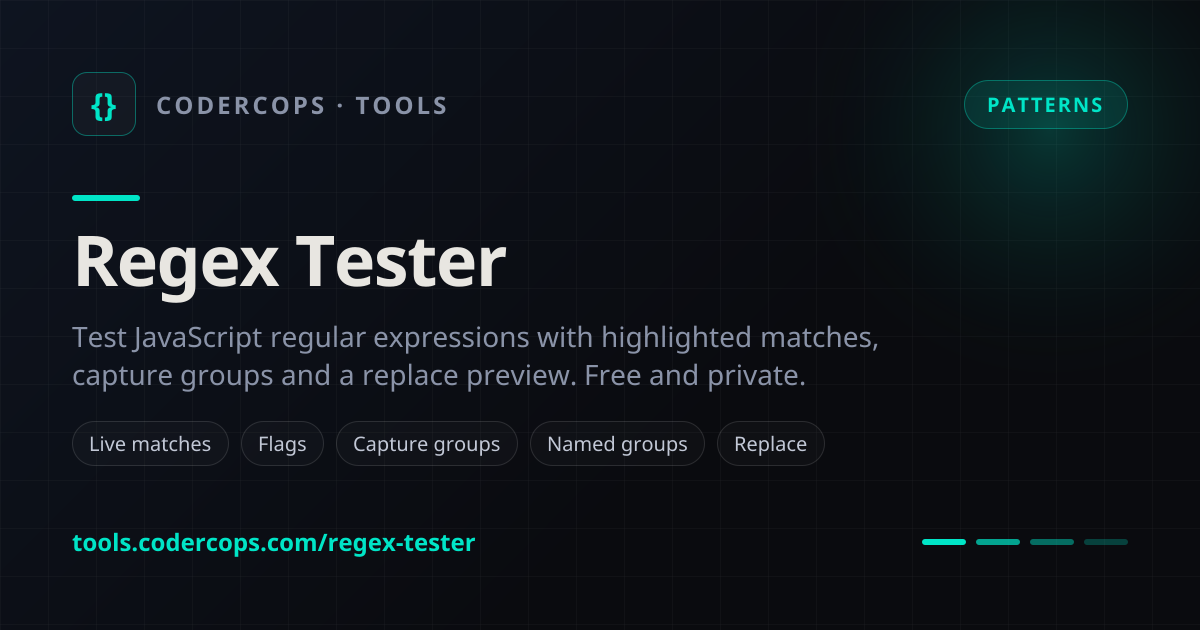
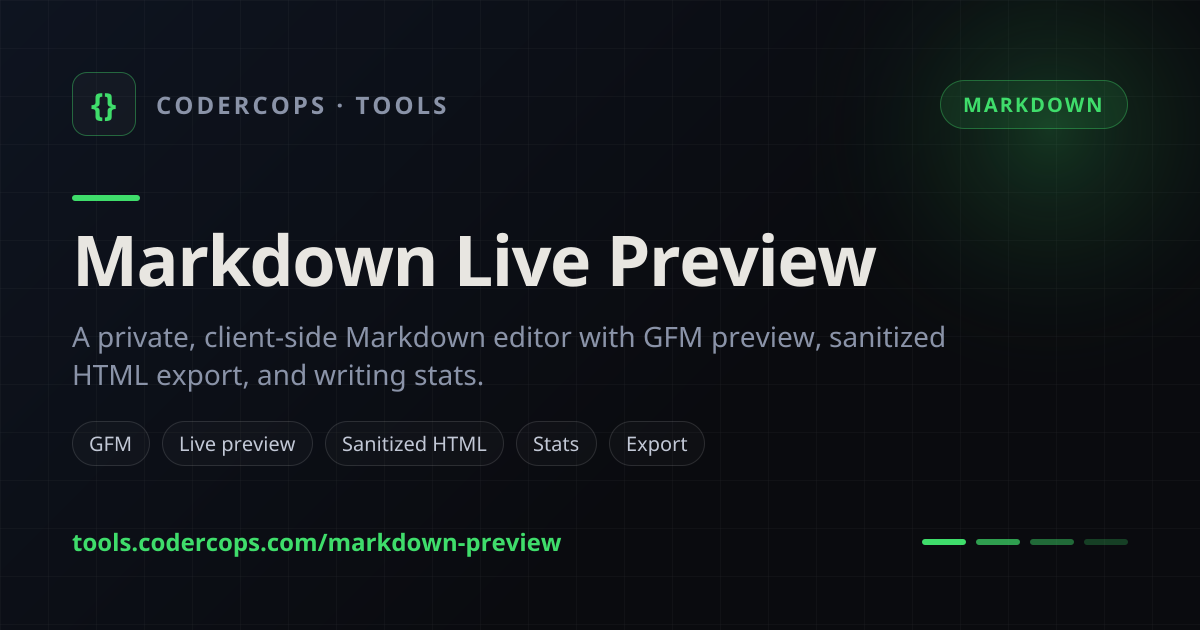
fix: correct preview themes and OG asset

diff --git a/app/(tools)/markdown-preview/MarkdownPreviewClient.tsx b/app/(tools)/markdown-preview/MarkdownPreviewClient.tsx
@@ -1,11 +1,12 @@
 "use client";
 
-import { useEffect, useMemo, useRef, useState } from "react";
+import { useMemo, useRef, useState, useSyncExternalStore } from "react";
 import DOMPurify from "dompurify";
 import { CopyButton } from "@/components/shared/CopyButton";
 import { getMarkdownStats, insertMarkdown, renderMarkdown } from "@/lib/markdown-preview";
 
 const starter = `# Hello, Markdown!\n\nWrite on the left and see **GitHub-flavored Markdown** rendered here.\n\n- [x] Live preview\n- [ ] Copy sanitized HTML\n\n| Feature | Status |\n| --- | --- |\n| Tables | Ready |\n| Code | \`const answer = 42\` |\n\n~~~ts\nconst greeting = "Hello, world!";\n~~~`;
+const subscribeToMountedState = () => () => {};
 
 function sanitizePreviewHtml(markdown: string) {
   const clean = DOMPurify.sanitize(renderMarkdown(markdown), {
@@ -29,9 +30,8 @@ function sanitizePreviewHtml(markdown: string) {
 export function MarkdownPreviewClient() {
   const [markdown, setMarkdown] = useState(starter);
   const [darkPreview, setDarkPreview] = useState(false);
-  const [mounted, setMounted] = useState(false);
+  const mounted = useSyncExternalStore(subscribeToMountedState, () => true, () => false);
   const textareaRef = useRef<HTMLTextAreaElement>(null);
-  useEffect(() => setMounted(true), []);
   const html = useMemo(() => {
     return mounted ? sanitizePreviewHtml(markdown) : "";
   }, [markdown, mounted]);
@@ -77,7 +77,7 @@ export function MarkdownPreviewClient() {
     </div>
     <div className="grid grid-cols-1 lg:grid-cols-2 gap-3">
       <div className="card overflow-hidden"><div className="px-3 py-2 border-b border-[var(--hairline)] bg-[var(--bg-raise)] font-mono text-[10.5px] tracking-[0.22em] uppercase text-[var(--fg-dim)]">Markdown</div><textarea ref={textareaRef} aria-label="Markdown input" value={markdown} onChange={(e) => setMarkdown(e.target.value)} spellCheck={false} className="editor-input p-4" style={{ minHeight: 520 }} /></div>
-      <div className={`card overflow-hidden ${darkPreview ? "bg-[#17191f] text-[#f4f4f5]" : "bg-white text-[#17191f]"}`}><div className="px-3 py-2 border-b border-black/10 font-mono text-[10.5px] tracking-[0.22em] uppercase opacity-60">Preview</div><article className="markdown-preview p-5 min-h-[520px] overflow-auto" dangerouslySetInnerHTML={{ __html: html }} /></div>
+      <div className="card overflow-hidden" style={{ background: darkPreview ? "#17191f" : "#ffffff", color: darkPreview ? "#f4f4f5" : "#17191f" }}><div className="px-3 py-2 border-b border-black/10 font-mono text-[10.5px] tracking-[0.22em] uppercase opacity-60">Preview</div><article className="markdown-preview p-5 min-h-[520px] overflow-auto" dangerouslySetInnerHTML={{ __html: html }} /></div>
     </div>
     <div className="card px-4 py-3 flex flex-wrap gap-x-6 gap-y-2 font-mono text-[11px] text-[var(--fg-dim)]"><span>{words} words</span><span>{chars} chars</span><span>{lines} lines</span><span>{readingMinutes} min read</span><span className="ml-auto">HTML is sanitized before rendering and export</span></div>
   </section>;
